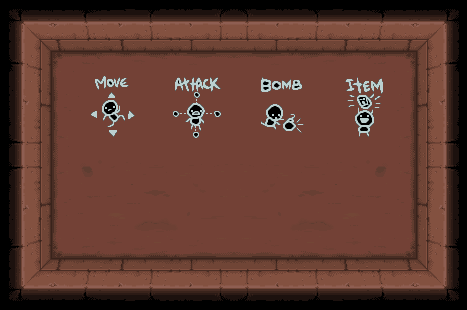
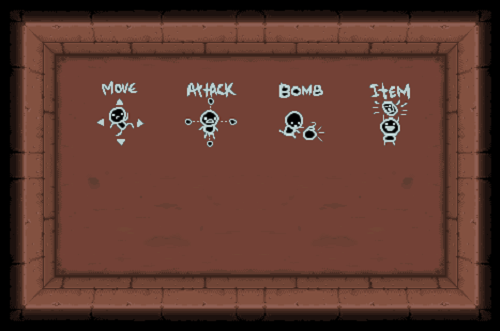
isaac의 눈물 눈물 - 벽 충돌 처리 눈물 - 키값에 따른 발사방향 조정 isaac - 벽 충돌 처리

diff --git a/Isaac/Scenes/SceneDev1.cpp b/Isaac/Scenes/SceneDev1.cpp
@@ -11,12 +11,28 @@ SceneDev1::~SceneDev1()
 {
 }
 
+bool SceneDev1::IsInMap(const sf::Vector2f& point)
+{
+	sf::FloatRect rect = spriteGoBackground->GetGlobalBounds();
+	rect = Utils::ResizeRect(rect, spriteGoBackground->GetScale());
+
+	return rect.contains(point);
+}
+
+sf::Vector2f SceneDev1::ClampByMap(const sf::Vector2f point)
+{
+	sf::FloatRect rect = spriteGoBackground->GetGlobalBounds();
+	rect = Utils::ResizeRect(rect, spriteGoBackground->GetScale());
+
+	return Utils::Clamp(point, rect);
+}
+
 void SceneDev1::Init()
 {
 	spriteGoBackground = new SpriteGo("StartRoom");
 	spriteGoBackground->SetTexture("graphics/StartRoom.png");
 	spriteGoBackground->SetOrigin(Origins::MC);
-	spriteGoBackground->SetScale({3,3});
+	spriteGoBackground->SetScale({2,2});
 	spriteGoBackground->SetPosition({ 0.f,0.f });
 	AddGo(spriteGoBackground);
 

diff --git a/Isaac/GameObjects/PlayerIsaac.h b/Isaac/GameObjects/PlayerIsaac.h
@@ -35,6 +35,7 @@ protected:
 	static std::string MoveUp;
 
 	sf::Vector2f direction;
+	sf::Vector2f attackDirection;
 	float speed = 400.f;
 
 	std::vector<ClipInfo> clipInfos;
@@ -53,6 +54,10 @@ protected:
 	float tearsSpeed = 1000.f;
 	int tearsDamage = 10;
 
+	bool left = false;
+	bool Right = false;
+	bool Up = false;
+	bool Down = false;
 
 public:
 	PlayerIsaac(const std::string& name = "");

diff --git a/Isaac/Framework/SceneMgr.cpp b/Isaac/Framework/SceneMgr.cpp
@@ -2,6 +2,7 @@
 #include "SceneMgr.h"
 #include "SceneDev1.h"
 #include "SceneDev2.h"
+#include "SceneTitle.h"
 
 SceneMgr::~SceneMgr()
 {
@@ -11,7 +12,8 @@ SceneMgr::~SceneMgr()
 void SceneMgr::Init()
 {
 	Release();
-
+	
+	scenes.push_back(new SceneTitle(SceneIds::SceneTitle));
 	scenes.push_back(new SceneDev1(SceneIds::SceneDev1));
 	scenes.push_back(new SceneDev2(SceneIds::SceneDev2));
 

diff --git a/Isaac/SceneTitle.cpp b/Isaac/SceneTitle.cpp
@@ -1,0 +1,31 @@
+#include "pch.h"
+#include "SceneTitle.h"
+
+SceneTitle::SceneTitle(SceneIds id)
+	:Scene(id)
+{
+}
+
+SceneTitle::~SceneTitle()
+{
+}
+
+void SceneTitle::Init()
+{
+}
+
+void SceneTitle::Release()
+{
+}
+
+void SceneTitle::Enter()
+{
+}
+
+void SceneTitle::Exit()
+{
+}
+
+void SceneTitle::Update(float dt)
+{
+}

diff --git a/Isaac/SceneTitle.h b/Isaac/SceneTitle.h
@@ -1,0 +1,20 @@
+#pragma once
+#include "Scene.h"
+class SceneTitle : public Scene
+{
+protected:
+
+public:
+	SceneTitle(SceneIds id);
+	~SceneTitle() override;
+
+	void Init() override;
+	void Release() override;
+
+	void Enter() override;
+	void Exit() override;
+
+	void Update(float dt) override;
+
+};
+

diff --git a/Isaac/Scenes/SceneDev1.h b/Isaac/Scenes/SceneDev1.h
@@ -11,6 +11,8 @@ public:
 	SceneDev1(SceneIds id);
 	virtual ~SceneDev1();
 
+	bool IsInMap(const sf::Vector2f& point);
+	sf::Vector2f ClampByMap(const sf::Vector2f point);
 
 	void Init() override;
 	void Release() override;

diff --git a/Isaac/Framework/SceneMgr.h b/Isaac/Framework/SceneMgr.h
@@ -5,7 +5,7 @@ class Scene;
 
 enum class SceneIds
 {
-	None = -1, SceneDev1, SceneDev2, Count,
+	None = -1, SceneTitle, SceneDev1, SceneDev2, Count,
 };
 
 class SceneMgr : public Singleton<SceneMgr>

diff --git a/Isaac/main.cpp b/Isaac/main.cpp
@@ -2,7 +2,7 @@
 
 int main()
 {
-    FRAMEWORK.Init(1920, 1080, "Timber");
+    FRAMEWORK.Init(1000, 700, "Timber");
     FRAMEWORK.Do();
     FRAMEWORK.Release();
     return 0;

diff --git a/Isaac/tears.h b/Isaac/tears.h
@@ -12,7 +12,7 @@ protected:
 
 	static std::string tear;
 
-	SceneDev1* sceneDev1 = nullptr;
+	SceneDev1* sceneDev1;
 
 public:
 	Tears(const std::string& name = "");
